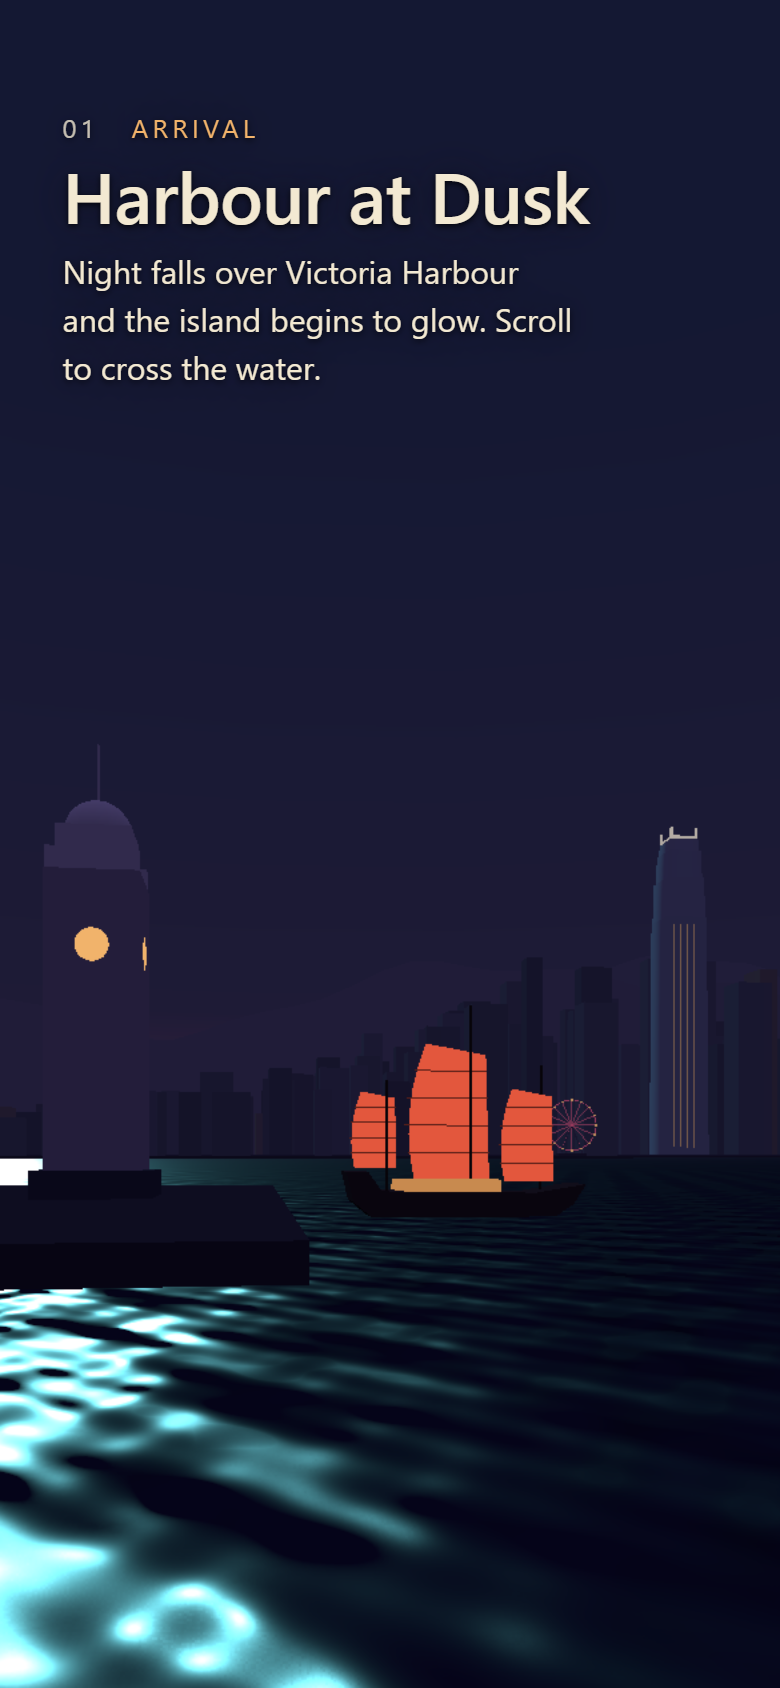
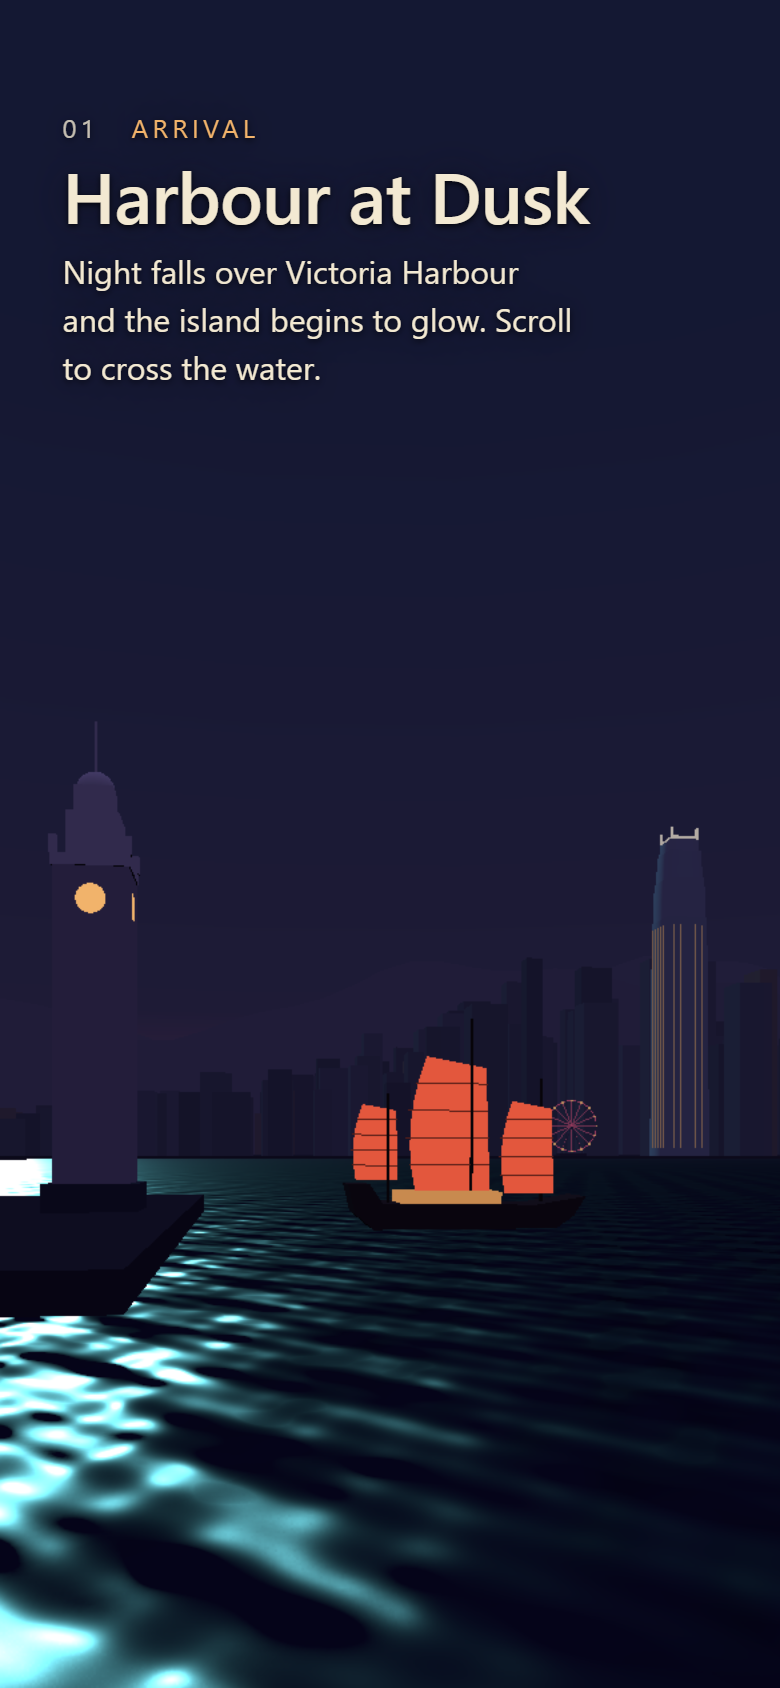
Slimmer Clock Tower with stepped crown; open water between quay and ferry
Tower shaft 8 m wide with a light-stone crown (cornice, two tiers, dome, spire). Promontory now ends 5 m past the tower so frame 01 shows water before the ferry. Narrowed tower probes in 01/02 desktop, re-solved 01d, 01m, 02d, 02m and refreshed their screenshots.

diff --git a/src/scene/createKowloonEdge.js b/src/scene/createKowloonEdge.js
@@ -46,35 +46,42 @@ function createClockTower() {
   const dark = lambert(PALETTE.proxyDark);
   const light = lambert(0x8d879a);
 
-  const plinth = new Mesh(new BoxGeometry(12.5, 3, 12.5), dark);
+  // Slim shaft, then a light-stone crown that steps in: cornice, two tiers, dome, spire.
+  const plinth = new Mesh(new BoxGeometry(10, 3, 10), dark);
   plinth.position.y = 1.5;
-  const shaft = new Mesh(new BoxGeometry(10, 32, 10), stone);
-  shaft.position.y = 19;
-  const stage = new Mesh(new BoxGeometry(8, 5, 8), light);
-  stage.position.y = 37.5;
+  const shaft = new Mesh(new BoxGeometry(8, 34, 8), stone);
+  shaft.position.y = 20;
+  // Barely wider than the shaft: a deeper overhang shows its unlit underside as a black band.
+  const cornice = new Mesh(new BoxGeometry(8.3, 1.2, 8.3), light);
+  cornice.position.y = 37.6;
+  const lowerTier = new Mesh(new BoxGeometry(5.6, 5, 5.6), light);
+  lowerTier.position.y = 40.7;
+  const upperTier = new Mesh(new BoxGeometry(4.2, 3, 4.2), light);
+  upperTier.position.y = 44.7;
 
-  const pinnacles = new InstancedMesh(new BoxGeometry(1.1, 2.4, 1.1), light, 4);
+  const pinnacles = new InstancedMesh(new BoxGeometry(0.8, 2, 0.8), light, 4);
   const m = new Matrix4();
-  [[-4.3, -4.3], [4.3, -4.3], [-4.3, 4.3], [4.3, 4.3]].forEach(([x, z], i) => {
-    pinnacles.setMatrixAt(i, m.makeTranslation(x, 36.2, z));
+  [[-3.9, -3.9], [3.9, -3.9], [-3.9, 3.9], [3.9, 3.9]].forEach(([x, z], i) => {
+    pinnacles.setMatrixAt(i, m.makeTranslation(x, 39.2, z));
   });
 
-  const dome = new Mesh(new SphereGeometry(3.7, 16, 8, 0, Math.PI * 2, 0, Math.PI / 2), light);
-  dome.position.y = 40;
-  const spire = new Mesh(new CylinderGeometry(0.14, 0.14, 7, 6), light);
-  spire.position.y = 46.5;
+  const dome = new Mesh(new SphereGeometry(2.1, 16, 8, 0, Math.PI * 2, 0, Math.PI / 2), light);
+  dome.position.y = 46.2;
+  const spire = new Mesh(new CylinderGeometry(0.12, 0.12, 6, 6), light);
+  spire.position.y = 51;
 
   const faceMaterial = basic(PALETTE.warm);
-  const faceFront = new Mesh(new CircleGeometry(1.8, 24), faceMaterial);
-  faceFront.position.set(0, 27, 5.02);
-  const faceEast = new Mesh(new CircleGeometry(1.8, 24), faceMaterial);
-  faceEast.position.set(5.02, 27, 0);
+  const faceY = 33.5;
+  const faceFront = new Mesh(new CircleGeometry(1.6, 24), faceMaterial);
+  faceFront.position.set(0, faceY, 4.02);
+  const faceEast = new Mesh(new CircleGeometry(1.6, 24), faceMaterial);
+  faceEast.position.set(4.02, faceY, 0);
   faceEast.rotation.y = Math.PI / 2;
-  const faceWest = new Mesh(new CircleGeometry(1.8, 24), faceMaterial);
-  faceWest.position.set(-5.02, 27, 0);
+  const faceWest = new Mesh(new CircleGeometry(1.6, 24), faceMaterial);
+  faceWest.position.set(-4.02, faceY, 0);
   faceWest.rotation.y = -Math.PI / 2;
 
-  tower.add(plinth, shaft, stage, pinnacles, dome, spire, faceFront, faceEast, faceWest);
+  tower.add(plinth, shaft, cornice, lowerTier, upperTier, pinnacles, dome, spire, faceFront, faceEast, faceWest);
   const [x, y, z] = WORLD.clockTower.position;
   tower.position.set(x, y, z);
   tower.rotation.y = WORLD.clockTower.yaw;

diff --git a/src/data/chapters.js b/src/data/chapters.js
@@ -32,13 +32,13 @@ export const chapters = [
     },
     camera: {
       desktop: {
-        position: [-14, 5.4, 99.5],
-        target: [-2.4, 30.1, -299.5],
-        fov: 41,
+        position: [-13, 5.9, 99.5],
+        target: [-2.4, 30.5, -299.6],
+        fov: 41.5,
         holdDolly: [0, 0, -4],
         via: [[-50, 7, 58]],
       },
-      mobile: { position: [-43.3, 7.5, 99], target: [7.4, 120.4, -281.4], fov: 77.8 },
+      mobile: { position: [-43.1, 9, 99], target: [7.6, 121.5, -281.4], fov: 77.7 },
     },
     copy: {
       desktop: { left: 22, top: 8, right: 52, bottom: 31 },
@@ -51,12 +51,12 @@ export const chapters = [
     },
     fogDensity: 0.00045,
     vessels: {
-      desktop: { ferry: [-29.6, -106.6, 0], junk: [25.2, -54.2, 0] },
-      mobile: { ferry: [-19.7, -89.9, 0], junk: [-18.6, -22.1, 0] },
+      desktop: { ferry: [-29.2, -103.6, 0], junk: [26.1, -53.1, 0] },
+      mobile: { ferry: [-19.7, -89.9, 0], junk: [-18.1, -23.2, 0] },
     },
     probes: {
       desktop: {
-        tower: { left: 8, right: 18, top: 7, bottom: 60 },
+        tower: { left: 9, right: 17, top: 3, bottom: 60 },
         ferry: { left: 33, right: 49, bottom: 64 },
         junk: { left: 61, right: 77, bottom: 64 },
         // IFC sits right of the PNG (70–74) so the junk's sails don't hide it.
@@ -83,15 +83,15 @@ export const chapters = [
     },
     camera: {
       desktop: {
-        position: [-81.2, 7.5, 38.7],
-        target: [185.3, 107.5, -242.3],
-        fov: 57.3,
+        position: [-83, 7.6, 39.5],
+        target: [194.4, 114.6, -228.1],
+        fov: 60.7,
         via: [[-28, 7, 22], [5, 5, -90]],
       },
       mobile: {
-        position: [-62.8, 4.1, 109.1],
-        target: [-52.2, 76.3, -284.1],
-        fov: 35,
+        position: [-59.6, 4.8, 108.2],
+        target: [-59.1, 82.8, -284.1],
+        fov: 36.6,
         via: [[-34, 8, 60], [-24, 6, -35]],
       },
     },
@@ -105,12 +105,13 @@ export const chapters = [
     },
     fogDensity: 0.00045,
     vessels: {
-      desktop: { ferry: [7.9, 5.9, -0.2], junk: [120, -80, 0] },
+      desktop: { ferry: [2.4, 15.1, -0.2], junk: [120, -80, 0] },
       mobile: { ferry: [20, -120, 0.8], junk: [120, -80, 0] },
     },
     probes: {
       desktop: {
-        tower: { left: 15, right: 35, top: 2, bottom: 85 },
+        // Narrower than the PNG (15–35): the tower is slimmer than the drawing's close-up.
+        tower: { left: 18, right: 32, top: 2, bottom: 85 },
         ferry: { left: 66, right: 89, top: 67, bottom: 83 },
         ifc: { offscreen: true, behind: 'tower' },
         wheel: { offscreen: true, behind: 'tower' },

diff --git a/src/data/world.js b/src/data/world.js
@@ -7,10 +7,10 @@ export const WORLD = {
   kowloon: {
     // [xMin, xMax, zMin, zMax, top]
     blocks: [
-      [-260, -40, -60, 40, 2.5], // Clock Tower promontory
+      [-260, -50, -60, 40, 2.5], // Clock Tower promontory
       [-260, -60, 40, 400, 2.5], // Kowloon waterfront behind
       [-60, 80, 99, 400, 2.5], // promenade under the arrival viewpoint
-      // No land east of x −40: in frame 01 the ferry must sit on open water.
+      // Land stops 5 m past the tower: in frame 01 open water separates it from the ferry.
     ],
     // Polygon decks [[x, z], ...] at height `top`, for edges that are not axis-aligned.
     decks: [

diff --git a/docs/greybox-review/REVIEW.md b/docs/greybox-review/REVIEW.md
@@ -34,15 +34,21 @@ one with its storyboard PNG in `docs/storyboards/`.
    desktop the camera is framed for IFC (on target), so the wheel lands at
    about 41–50% across instead of 29–42%. Getting it bigger would push IFC's
    crown out of the top of the frame.
-6. **01 mobile** is within about 3% of every target. IFC's right edge is at 91%
-   (target 88%) and the wheel's left edge at 70% (target 73%).
+6. **01 mobile** is within about 3% of every target. IFC's top is at 49%
+   (target 46%).
 7. **02 mobile** has no water strip at the bottom, because the lowered tower
    and the railing fill it.
 8. **01 desktop — IFC moved right (your request).** It sits at about 78–83%
    instead of the PNG's 70–74%, so the junk's sails no longer hide it. The
    camera moved about 6 m east along the promenade to do this. The copy
    moved 2% right to stay clear of the Clock Tower.
-9. **Brief wording.** The brief swaps the fore and mizzen sail labels in 7.4.
+9. **Clock Tower — slimmer, with a stepped crown (your request).** The shaft
+   is 8 m wide and the light-stone crown steps in: cornice, two tiers, dome,
+   spire. Its frame targets are narrower to match: 9–17% in 01 desktop and
+   18–32% in 02 desktop (the PNG's close-up draws it 15–35%).
+10. **01 — open water between the tower's quay and the ferry (your request).**
+    The land now stops 5 m past the tower.
+11. **Brief wording.** The brief swaps the fore and mizzen sail labels in 7.4.
    The geometry follows the PNG.
 
 Everything else is within ±3% of its section 7 target.
@@ -65,8 +71,8 @@ sits at the centre of the frame.
   - Copy is fully visible through each hold window, then fades out before the
     camera moves far.
 - **Camera paths:**
-  - The camera never passes within 2.5 m of the tower, palms or railing on
-    desktop, or within about 1.7 m on mobile.
+  - The camera never passes within about 2.3 m of the tower, palms or railing
+    on desktop, or within about 2 m on mobile.
   - It stays about 1.5 m or more above ground or water.
   - Pitch changes by about 25° at most in a chapter (05 → 06 on mobile; the
     limit is 30°), and roll is always 0.
